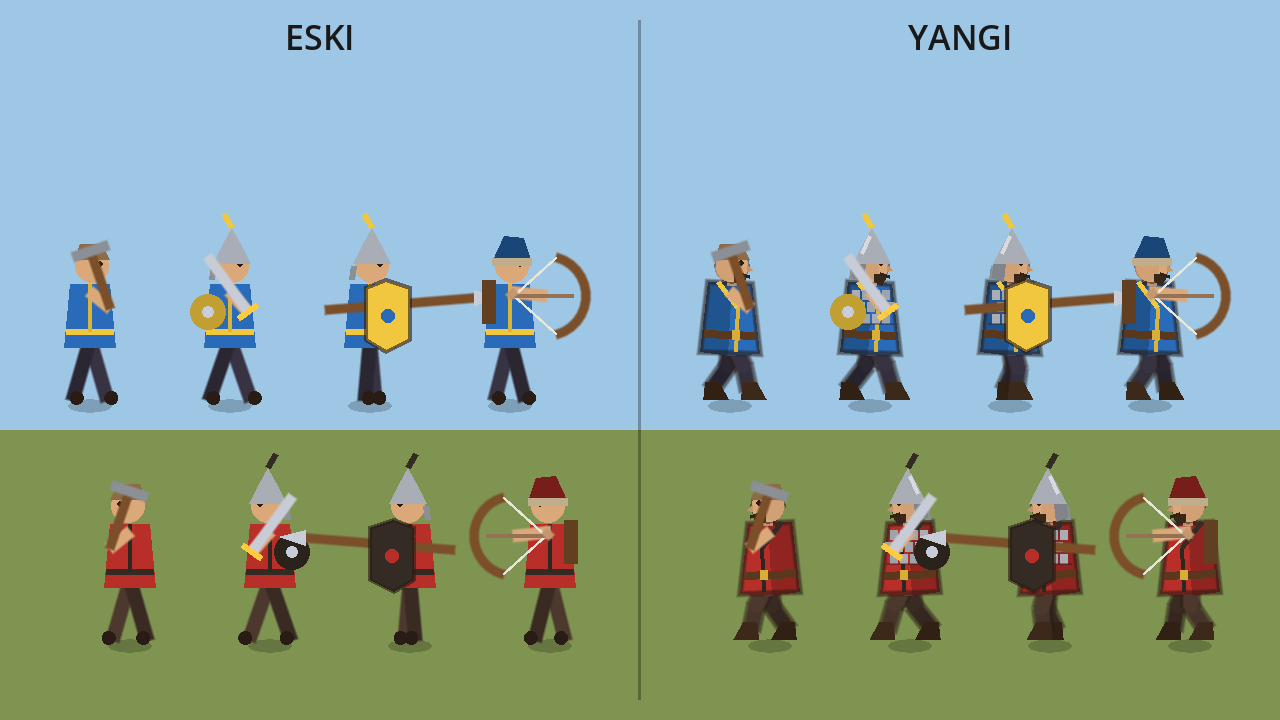
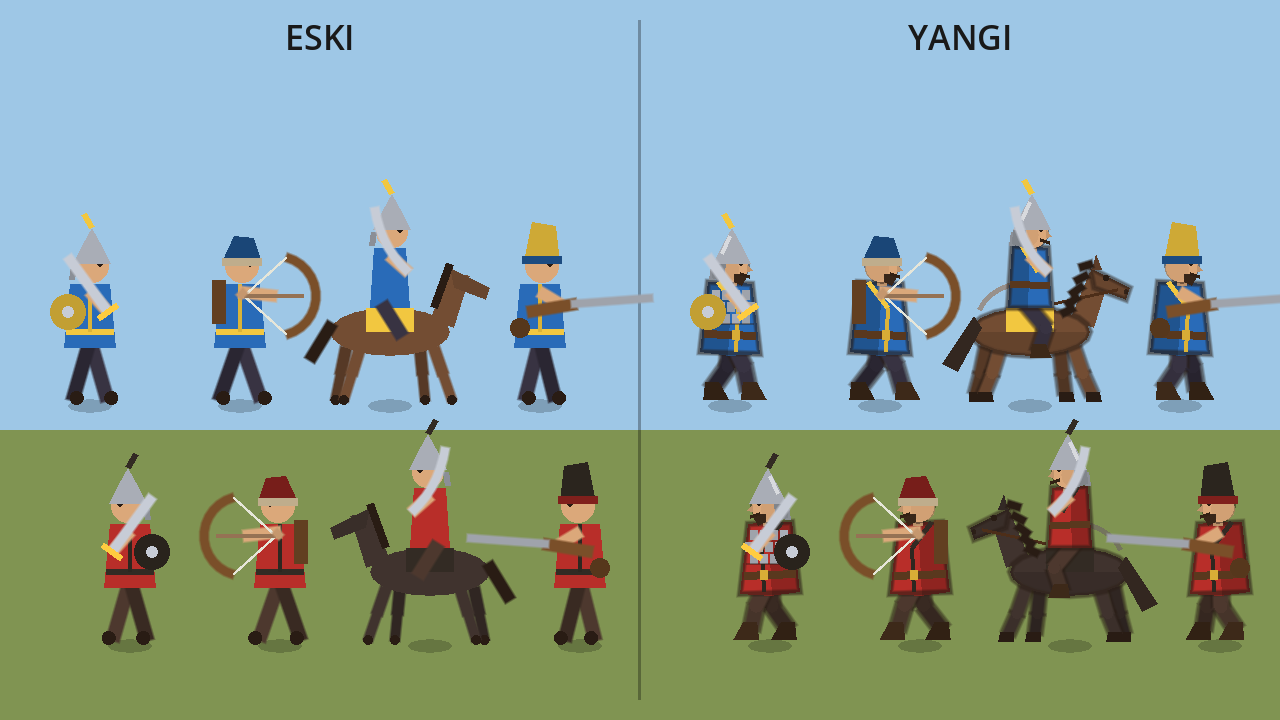
Jonli grafika (1): batafsil askarlar, otlar va chavandozlar
Piyodalar: bukiladigan oyoqlar, etik, soyali to'n, sovut, yuz va soqol, kontur.
Otlar: kontur, soyalar, yol, jilov, dum. LOD: 55+ askarda soddaroq chizma.
tools/art_preview.gd - uslublarni solishtirish.

Claude-Session: https://claude.ai/code/session_01AUvG8mVZ2xcqJ9Wfw9UwnE

Changed region(s): [[0.0625, 0.2444, 0.5938, 0.9167], [0.5625, 0.2444, 1.0, 0.9167], [0.0312, 0.3056, 0.0938, 0.4583]]

diff --git a/PROGRESS.md b/PROGRESS.md
@@ -6,6 +6,13 @@
 - Zaxira qo'shin paketlari (masalan, 100 kamonchi ≤ 4 000 so'm), adolatli narxlar, pulga yutiladigan o'yin bo'lmasin.
 
 
+### 2026-11-23 (33) — Jonli grafika (1): askarlar va otlar
+- Foydalanuvchi: "masofa yaxshi, endi yana jonliroq, realroq". Rassom grafikasi kelguncha kod chizmasi boyitildi:
+  piyodalar (tizza bukiladigan oyoqlar, etik, soyali to'n, kamar, sovut plastinkalari, yuz/soqol, dubulg'a yaltirashi, kontur),
+  otlar (kontur, qorin soyasi, ikki bo'g'imli oyoqlar, yol, ko'z/quloq, jilov, to'liq dum), chavandozlar (etik, soyali gavda, yuz).
+- LOD: ekranda 55+ askar bo'lsa soddaroq chizma (telefonda tezlik). 150 birlik: chizish ~7,5 ms/kadr.
+- `tools/art_preview.gd` — eski/yangi uslubni yonma-yon solishtirish.
+
 ### 2026-11-23 (32) — Jiddiy xato tuzatildi: otliq va sarkardalar dushman oldida turib qolardi
 - Qisqa qurolli askarlar (qilichboz, otliq, sarkarda) dushmandan 1 qadam uzoqda to'xtab, hujum qilmay qolardi. Tuzatildi.
 - Askarlar balansi qayta qurildi ("tosh-qaychi-qog'oz" jadvali), kampaniyalar/turnir/kunlik sinov qayta o'lchandi — devor yo'q.
